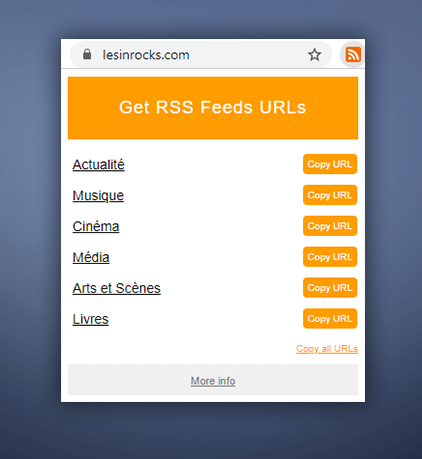
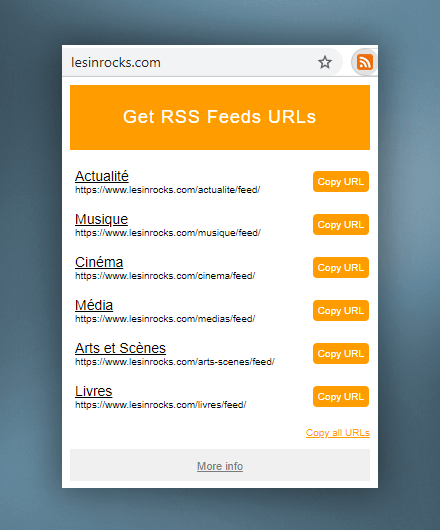
Improve RSS feed URL detection (#13) and add full RSS feed URL (#14)

diff --git a/js/popup.js b/js/popup.js
@@ -84,6 +84,9 @@ function getFeedsURLs(url, callback) {
                     // If feed's url starts with http or https
                     else if (/^(http|https):\/\//i.test(feed_url))
                         feed_url = feed_url;
+                    // If feed's has no slash
+                    else if (!feed_url.match(/\//))
+                        feed_url = url.substr(0, url.lastIndexOf("/")) + '/' + feed_url;
                     else
                         feed_url = url + "/" + feed_url.replace(/^\//g, '');
 
@@ -226,6 +229,24 @@ function parseUrl(string) {
     return {origin, host, hostname, pathname, port, protocol, search, hash}
 }
 
+/*
+ * Truncate string in the middle
+ */
+function truncate(fullStr, strLen, separator) {
+    if (fullStr.length <= strLen) return fullStr;
+    
+    separator = separator || '...';
+    
+    var sepLen = separator.length,
+        charsToShow = strLen - sepLen,
+        frontChars = Math.ceil(charsToShow/2),
+        backChars = Math.floor(charsToShow/2);
+    
+    return fullStr.substr(0, frontChars) + 
+           separator + 
+           fullStr.substr(fullStr.length - backChars);
+};
+
 
 /**
  * Attempt to find an RSS feed URL by providing a suffix
@@ -292,6 +313,7 @@ document.addEventListener('DOMContentLoaded', function() {
                     html += '<tr>';
                     html +=   '<td class="feed-title">';
                     html +=     '<a class="link" href="'+feeds[i].url+'" title="Open feed URL" data-tabtitle="'+tab.title+'" target="_blank">'+feeds[i].title+'</a>';
+                    html +=     '<span class="feed-url">'+truncate(feeds[i].url, 50)+'</span>';
                     html +=   '</td>';
                     html +=   '<td class="feed-copy">';
                     html +=     '<a class="copyButton copyLink" title="Copy feed URL" href="#">Copy URL</a>';

diff --git a/css/popup.css b/css/popup.css
@@ -40,6 +40,10 @@ body.rss-feed-url {
 .rss-feed-url #feeds a.link:hover {
     text-decoration: none;
 }
+.rss-feed-url #feeds span.feed-url {
+    display: block;
+    font-size: 10px;
+}
 .rss-feed-url #feeds a.copyButton {
     background-color: #ff9c00;
     color: #fff;
